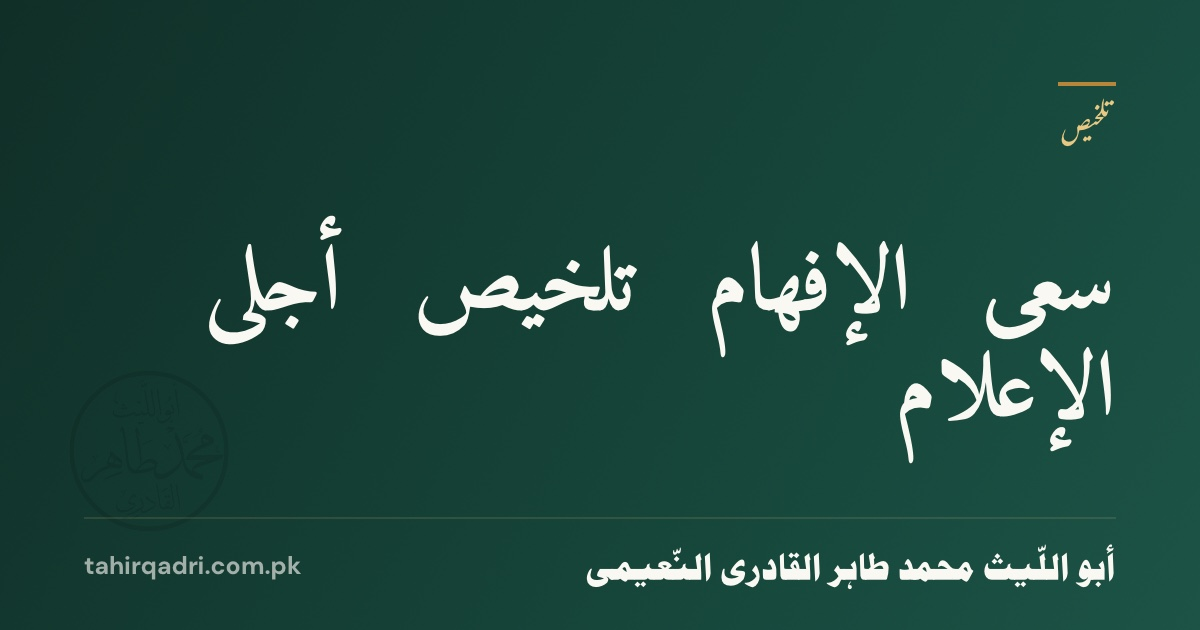
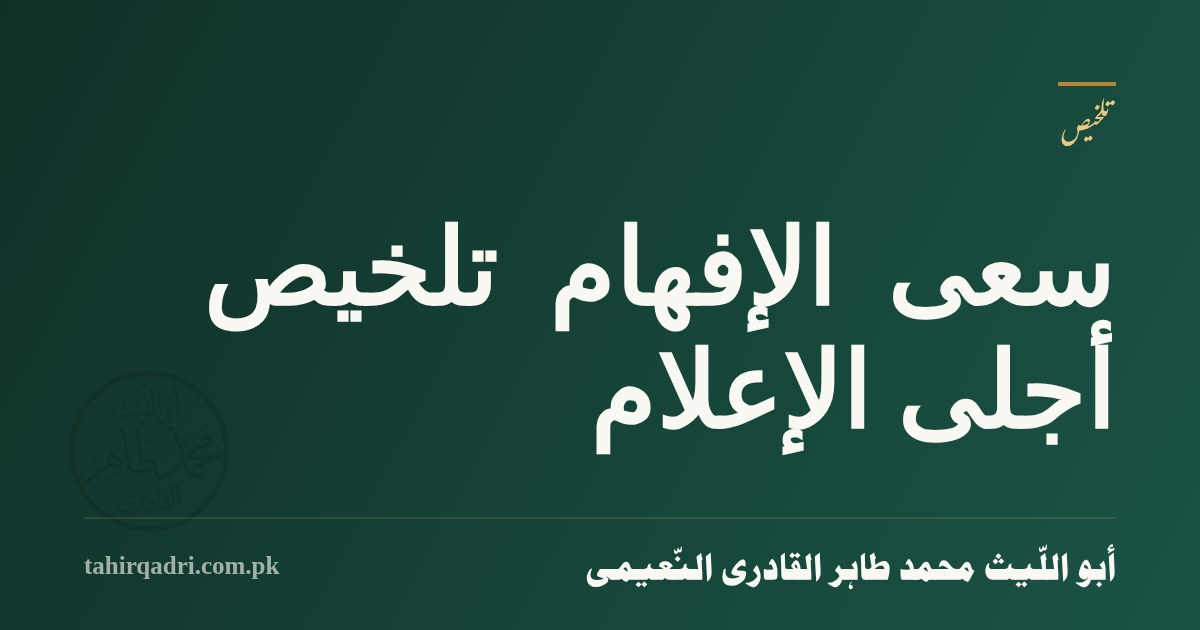
Stop a card's title opening a hole where a line has few gaps
The card's title is justified by hand and CARD_FILL was the only bar on
it. That bar is about the line; the fault is about the gap. "Technology
Shapes People" put two words on its first line, cleared the bar at 81%
fill, and handed the whole remainder to the single gap between them -
7.5 times a normal space, a bar of empty card with a word at each end.
"Zakat Calculator (v2)" had shipped the same way for as long as its card
existed, and nobody had reported it.

CARD_STRETCH is the second bar. 2 was chosen by drawing all thirty cards
at 2, 3, 4 and 6 and measuring every one: the worst hole on the site is
22% at the baseline, 7% at 2, 10% at 3 and 4, 18% at 6.

Tightening that loop is dangerous in a way that is not obvious, and the
first attempt made two cards worse. The size ladder keeps the largest
size that merely fits and only steps down while looking for one that
reads well, so a stricter bar makes more titles fail every rung and fall
back to the largest size - which is the one that opens the widest holes.
"ھیلو وین کا تہوار اور مسلمان" sat on one line, gained the bar, and
jumped to two stretched ones. The fallback now keeps the size whose
worst gap is smallest rather than the first that fits.

Guarded by reading the drawn card rather than the code that drew it:
there are at least three routes to a bad layout - the ladder, the
fallback, the justification - and a test aimed at one would miss the
others. test/editor.mjs decodes every committed card, finds the widest
[…]

diff --git a/admin.js b/admin.js
@@ -2115,6 +2115,19 @@
      شرعی` fills 59% at the size that merely fits and looked wrong
      stretched; at the size below it fills about 95% and looks right. */
   var CARD_FILL = 0.72;
+  /* How far one word space may be stretched before the line reads as a
+     hole rather than as justified type. Fill alone does not bound it:
+     `Technology Shapes People` put **two** words on its first line at
+     81% fill, cleared CARD_FILL comfortably, and handed the whole 19%
+     remainder to the single gap between them — **7.5 times a normal
+     space**, a bar of empty card with a word at each end.
+
+     Measured across every English card: the three that read well sit at
+     2.7, 2.8, 2.9 and 3.2; the broken one at 7.5. Four separates them
+     with room on both sides and moves none of the three. It is the
+     stretch *per gap* that matters, not the slack on the line — a line
+     of seven words can absorb what a line of two cannot. */
+  var CARD_STRETCH = 2;
 
   /* The card is set in the site's own faces, not in whichever family
      happened to be nearest. A record's title takes Aslam — the same bold
@@ -2335,25 +2348,50 @@
        three drawn side by side: a full line at 17.6px reads better here
        than a 59% line at 23.3px. If it ever looks too small, this loop is
        what to bound — not the justification below it. */
-    for (var j = i + 1; j < sizes.length; j += 1) {
+    var best = null;
+    for (var j = i; j < sizes.length; j += 1) {
       var px = sizes[j];
       var gap = record.language === 'ur' ? px * 0.22 : 0;
       ctx.font = cardTitleFont(record.language, px);
       var tryLines = wrapLines(ctx, record.title, maxWidth, 99, gap);
       var full = true;
+      var stretch = 0;
       tryLines.forEach(function (line, n) {
         if (n === tryLines.length - 1) return;
+        var words = String(line).split(' ').filter(Boolean);
         var ink = 0;
-        String(line).split(' ').filter(Boolean).forEach(function (word) {
-          ink += ctx.measureText(word).width;
-        });
+        words.forEach(function (word) { ink += ctx.measureText(word).width; });
         if (ink < maxWidth * CARD_FILL) full = false;
+        /* The hole test beside the fill test. The space to measure against
+           is the one the line will actually be set with: for Urdu that is
+           `gap`, since Aslam's own space is a single pixel and fillSpaced
+           puts `--space-urdu-heading` back by hand. */
+        if (words.length > 1) {
+          var space = gap || ctx.measureText(' ').width;
+          var each = space > 0 ? (maxWidth - ink) / (words.length - 1) / space : 0;
+          if (each > stretch) stretch = each;
+          if (each > CARD_STRETCH) full = false;
+        }
       });
-      if (full) {
-        titlePx = px; titleGap = gap; lines = tryLines;
-        lead = px * (record.language === 'ur' ? 1.28 : 1.16);
-        break;
-      }
+      var here = { px: px, gap: gap, lines: tryLines, stretch: stretch,
+                   lead: px * (record.language === 'ur' ? 1.28 : 1.16) };
+      if (full) { best = here; break; }
+      /* Nothing has passed yet, so remember the least bad. Keeping the
+         *largest* fitting size instead was the old fallback and it is
+         what made this test dangerous to tighten: a stricter bar meant
+         more titles fell through to it, and the largest size is the one
+         that opens the widest holes. `ھیلو وین کا تہوار اور مسلمان` sat
+         on one line until the bar was added, then jumped to two stretched
+         ones — not because the bar was wrong but because failing it threw
+         the title back to the top of the ladder.
+
+         Strictly better: the first size to pass outright still wins, and
+         a title that passes nowhere now takes the size whose worst gap is
+         smallest rather than the size that merely fits first. */
+      if (!best || stretch < best.stretch) best = here;
+    }
+    if (best) {
+      titlePx = best.px; titleGap = best.gap; lines = best.lines; lead = best.lead;
     }
     /* Nothing fitted even at the smallest step: take that step and let
        wrapLines cut it, which is the one case an ellipsis is right. */
@@ -2396,7 +2434,9 @@
            still checked here, because a title that never clears the bar at
            any size keeps its largest size and must not then be stretched
            into holes. */
-        if (spread > 0 && ink >= maxWidth * CARD_FILL) gap = spread;
+        var space = titleGap || ctx.measureText(' ').width;
+        if (spread > 0 && ink >= maxWidth * CARD_FILL &&
+            !(space > 0 && spread > space * CARD_STRETCH)) gap = spread;
       }
       fillSpaced(ctx, line, x, startY + n * lead, gap, rtl);
     });

diff --git a/CLAUDE.md b/CLAUDE.md
@@ -842,6 +842,45 @@ under the 19px floor the rest of the site keeps for Urdu. A full line at
 17.6px was judged to read better than a 59% line at 23.3px. If that ever
 looks too small, bound the size loop — not the justification under it.
 
+**Fill does not bound a hole; the stretch per gap does.** The card's
+title is justified by hand — every line but the last takes the gap that
+makes it exactly the measure — and `CARD_FILL` (0.72) was the only bar
+on it. That bar is about the *line*, and the fault is about the *gap*:
+`Technology Shapes People` put **two** words on its first line, cleared
+the bar at 81% fill, and handed the whole remainder to the one gap
+between them — **7.5 times a normal space**, a bar of empty card with a
+word at each end. `Zakat Calculator (v2)` had shipped the same way for
+as long as its card existed, and nobody had reported it.
+
+`CARD_STRETCH` is the second bar, and **2** was chosen by drawing all
+thirty cards at 2, 3, 4 and 6 and measuring every one. The worst hole
+on the site: 22% at the baseline, **7% at 2**, 10% at 3 and 4, 18% at
+6. Not by reasoning about typography — three attempts to model
+`wrapLines` in a script all got the measure wrong (it is
+`CARD_W - margin*2 - 120`, not `CARD_W - margin*2`) and produced
+confident numbers for the wrong card. **Draw the cards and measure the
+pixels; the model is not the thing.**
+
+**Tightening that loop is dangerous in a way that is not obvious.** The
+size ladder keeps the largest size that merely *fits* and only steps
+down while looking for one that reads well — so a stricter bar makes
+*more* titles fail every rung and fall back to the largest size, which
+is the one that opens the widest holes. `ھیلو وین کا تہوار اور مسلمان`
+sat on one line, gained the bar, and jumped to two stretched ones. The
+fallback now keeps the size whose **worst gap is smallest** rather than
+the first that fits. Any future bar added here has to fix the fallback
+in the same breath.
+
+**The guard reads the drawn card, not the code that drew it.** There
+are at least three routes to a bad layout — the ladder, the fallback,
+the justification — and a test aimed at one misses the others. So
+`test/editor.mjs` decodes every committed card, finds the widest run of
+columns with no ink inside the title band, and refuses more than 12% of
+the title's own width. It names both faults at 22% when the old cards
+are put back. The band matters: the byline and the domain share a row
+at opposite ends of the card, so measuring their row reports a hole on
+every card.
+
 **Weight is a design decision, and the test measures it.** The homepage was
 961KB: a decorative 518KB PNG inside the collapsed bio, and two fonts
 shipped as TTF. It is ~320KB now — the fonts are woff2 (58% smaller,
